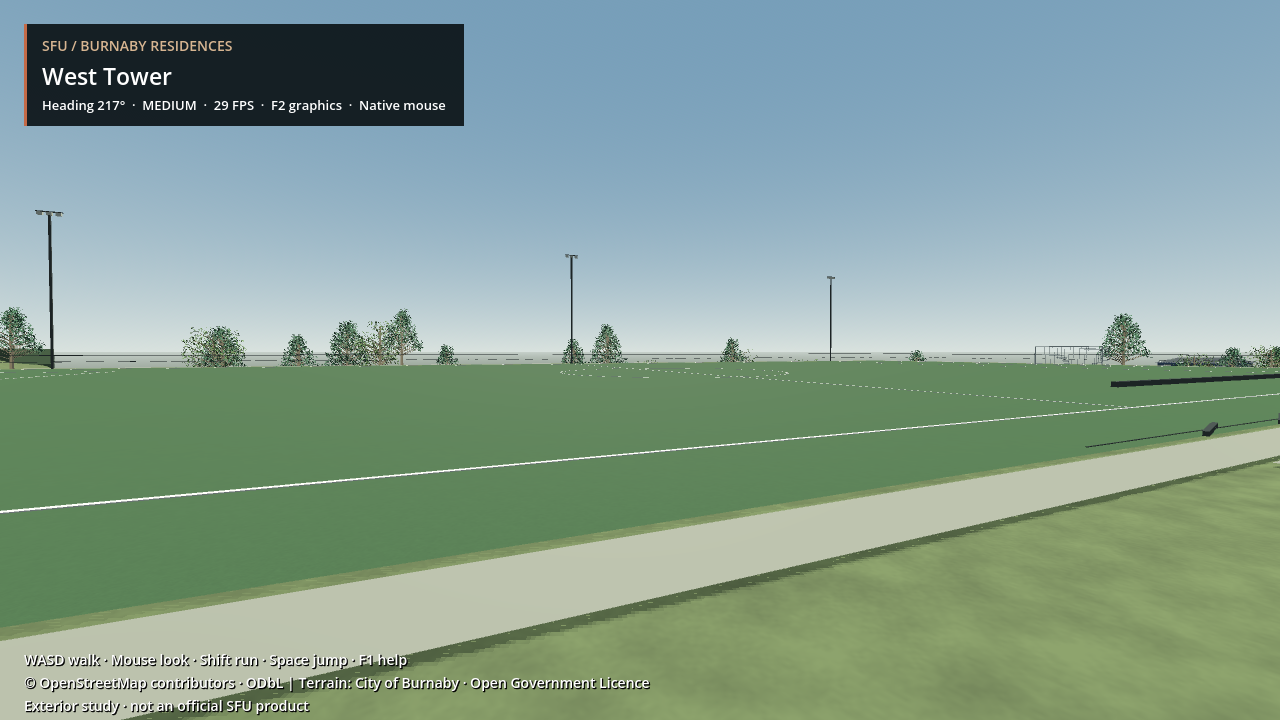
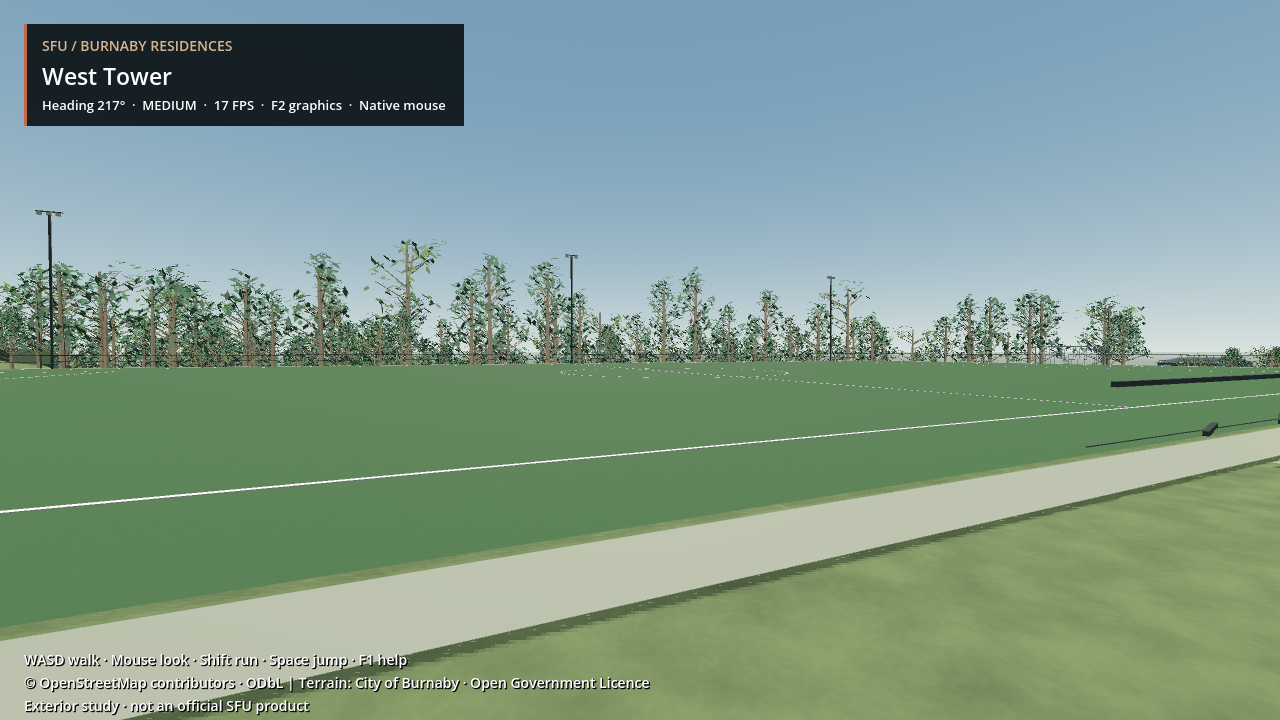
Add mapped North parking stairs and sports woodland context

Changed region(s): [[0.0, 0.3361, 0.9062, 0.5194]]

diff --git a/docs/PHASE2_HANDOFF.md b/docs/PHASE2_HANDOFF.md
@@ -61,3 +61,14 @@ Implemented the distinct courtyard-facing lower exterior gallery (3.1m high,3.6m
 Full verify_game.sh PASS:224 physics checks,376 terrain parity samples,412 route checkpoints (including5 new gallery crossing points),zero failures. Family validator passes. Paving added after collision tests is visual-only; final --capture-gallery launches the final scene for eye-level review. Exact column count/spacing and ground elevations remain estimates; this does not complete West Mall bridge or eastern forecourt grading.
 McTaggart clarification this window: user confirms photographed descending approach faces residences/Dining Commons. Current mapped entrance approach varies only~0.1m over28m, inconsistent with photo's pronounced stair descent. Do not add a fictitious hump or silently move the whole building; resolve its entry-level/graded apron before stair implementation.
 Diagnostics: original requested outer wsl_diagnostics.sh absent; ran current scripts/check_wsl.sh. Godot4.7.2 Standard found. glxinfo absent from PATH, no dependency installed. GPU game log confirms Compatibility/OpenGL D3D12 NVIDIA GTX1650.
+
+## 2026-10-19 finalization: North parking stairs / sports woodland
+Courtyard lower gallery checkpoint31496e1 is committed; final gallery_0/1 inspected, internal paving replaces grass. Added NorthParkingStair on original OSM1159793611, tags highway=steps,handrail=yes,incline=down,source timestamp2023-09-05. Coordinates112.856,8.273→110.252,19.715 retained: this is the BRH/SBH gap connecting the parking grade to the longitudinal-gallery side. Estimated14 treads,2.6m width, rails and landings follow existing endpoint heights; no footprint/source-grid change. Separate from Shadbolt courtyard photo and Dining stairs. Final northparking_0 inspected; collision ramp hidden to prevent z-fighting with visible steps. New ascent/descent route13 checkpoints awaits final results below.
+SportsWoodland now active:331 decorative trees only in mapped woodland, excluding fields plus7m buffer and occupied paths/buildings. Simplified foliage meshes, shared meshes/material, spatial batches and300m culling. Species/spacing estimated; not photoreal finished vegetation. Initial far foliage looked skeletal; added solid coarse foliage clusters, final capture pending /tmp/woodland-final-capture.log. No collisions on these off-path context trees.
+Terrain chunk experiment was REVERTED: gallery fps17.3/14.2 before versus15.0/11.7 during concurrent QA after, draw calls increased. Not a controlled benchmark, no performance win claimed. Original monolithic terrain restored. HUD nearest-building updates reduced to10Hz, camera/mouse/movement untouched. Broad-view performance remains unresolved.
+Host95% usage signal: finish this safe checkpoint, no new features. Full suite /tmp/parking-woodland-final-verify.log currently running. Terrain parity now excludes only new raised stair collision RIDs to measure the underlying unchanged ground; independent stair-height and ascent/descent tests cover the added surface.
+Next concrete task: resolve McTaggart Dining-facing entrance level and flattened approach before adding descent; local photo1782503552135.jpg plus user's direction confirmation. Current approach changes~0.1m over28m, conflicting with photo. Do not invent a hump. Full open list remains PHASE2_COMPLETION_AUDIT.md: Courtyard bridge/east forecourt, Shell terraces, North gallery corners/detail localization, East/West stairs/basketball, field fixtures/markings, precise tree/ground materials, architecture exceptions. These have NOT been completed by this iteration.
+
+## VERIFIED North parking / woodland checkpoint — 2026-10-19
+Full verify_game.sh PASSED:225 physics checks,376/376 terrain parity samples,425 route checkpoints,zero failures. New parking stair descent/return13/13 passed; prior gallery and Dining routes remain passing. Final northparking_0 and woodland_0 inspected after visual corrections. Woodland is visibly fuller but still simplified/stylized; no photorealism claim. Compatibility GTX1650 launch and capture complete; full family and46-photo index validators pass. Capture logs: /tmp/north-parking-final-capture.log, /tmp/woodland-final-capture.log. Runtime/source/approved East-West preservation checks pass.
+User reset allowance and explicitly requested continuation while finalizing; prior95% stop wording is superseded. Continue the remaining audit from this tested state. User Zone.Identifier deletions remain unstaged and untouched.

diff --git a/docs/PHASE2_STATUS.md b/docs/PHASE2_STATUS.md
@@ -65,3 +65,14 @@ Implemented the distinct courtyard-facing lower exterior gallery (3.1m high,3.6m
 Full verify_game.sh PASS:224 physics checks,376 terrain parity samples,412 route checkpoints (including5 new gallery crossing points),zero failures. Family validator passes. Paving added after collision tests is visual-only; final --capture-gallery launches the final scene for eye-level review. Exact column count/spacing and ground elevations remain estimates; this does not complete West Mall bridge or eastern forecourt grading.
 McTaggart clarification this window: user confirms photographed descending approach faces residences/Dining Commons. Current mapped entrance approach varies only~0.1m over28m, inconsistent with photo's pronounced stair descent. Do not add a fictitious hump or silently move the whole building; resolve its entry-level/graded apron before stair implementation.
 Diagnostics: original requested outer wsl_diagnostics.sh absent; ran current scripts/check_wsl.sh. Godot4.7.2 Standard found. glxinfo absent from PATH, no dependency installed. GPU game log confirms Compatibility/OpenGL D3D12 NVIDIA GTX1650.
+
+## 2026-10-19 finalization: North parking stairs / sports woodland
+Courtyard lower gallery checkpoint31496e1 is committed; final gallery_0/1 inspected, internal paving replaces grass. Added NorthParkingStair on original OSM1159793611, tags highway=steps,handrail=yes,incline=down,source timestamp2023-09-05. Coordinates112.856,8.273→110.252,19.715 retained: this is the BRH/SBH gap connecting the parking grade to the longitudinal-gallery side. Estimated14 treads,2.6m width, rails and landings follow existing endpoint heights; no footprint/source-grid change. Separate from Shadbolt courtyard photo and Dining stairs. Final northparking_0 inspected; collision ramp hidden to prevent z-fighting with visible steps. New ascent/descent route13 checkpoints awaits final results below.
+SportsWoodland now active:331 decorative trees only in mapped woodland, excluding fields plus7m buffer and occupied paths/buildings. Simplified foliage meshes, shared meshes/material, spatial batches and300m culling. Species/spacing estimated; not photoreal finished vegetation. Initial far foliage looked skeletal; added solid coarse foliage clusters, final capture pending /tmp/woodland-final-capture.log. No collisions on these off-path context trees.
+Terrain chunk experiment was REVERTED: gallery fps17.3/14.2 before versus15.0/11.7 during concurrent QA after, draw calls increased. Not a controlled benchmark, no performance win claimed. Original monolithic terrain restored. HUD nearest-building updates reduced to10Hz, camera/mouse/movement untouched. Broad-view performance remains unresolved.
+Host95% usage signal: finish this safe checkpoint, no new features. Full suite /tmp/parking-woodland-final-verify.log currently running. Terrain parity now excludes only new raised stair collision RIDs to measure the underlying unchanged ground; independent stair-height and ascent/descent tests cover the added surface.
+Next concrete task: resolve McTaggart Dining-facing entrance level and flattened approach before adding descent; local photo1782503552135.jpg plus user's direction confirmation. Current approach changes~0.1m over28m, conflicting with photo. Do not invent a hump. Full open list remains PHASE2_COMPLETION_AUDIT.md: Courtyard bridge/east forecourt, Shell terraces, North gallery corners/detail localization, East/West stairs/basketball, field fixtures/markings, precise tree/ground materials, architecture exceptions. These have NOT been completed by this iteration.
+
+## VERIFIED North parking / woodland checkpoint — 2026-10-19
+Full verify_game.sh PASSED:225 physics checks,376/376 terrain parity samples,425 route checkpoints,zero failures. New parking stair descent/return13/13 passed; prior gallery and Dining routes remain passing. Final northparking_0 and woodland_0 inspected after visual corrections. Woodland is visibly fuller but still simplified/stylized; no photorealism claim. Compatibility GTX1650 launch and capture complete; full family and46-photo index validators pass. Capture logs: /tmp/north-parking-final-capture.log, /tmp/woodland-final-capture.log. Runtime/source/approved East-West preservation checks pass.
+User reset allowance and explicitly requested continuation while finalizing; prior95% stop wording is superseded. Continue the remaining audit from this tested state. User Zone.Identifier deletions remain unstaged and untouched.

diff --git a/docs/PHASE2_COMPLETION_AUDIT.md b/docs/PHASE2_COMPLETION_AUDIT.md
@@ -13,7 +13,7 @@ Latest user instruction: work through all deferred remarks; preserve accepted ge
 | Beedie realism | Outline/infield/backstop first pass; sunken dugouts, benches/bleachers, bullpen, batting cage, fixture/track geometry | Partial |
 | North longitudinal gallery | Correct under long courtyard wing; repeat eye-level inside-wall/corner audit, no exposed building voids | Recheck |
 | North to Dining Commons | Two-flight stair added from Shadbolt gallery toward Dining west wall; ascent/descent13/13 passed. Dimensions estimated; exact upper door/landing tie-in pending | Verified first pass |
-| North gallery to parking | Separate connection still missing; do not confuse with Dining link or Shadbolt courtyard stair photo | Pending |
+| North gallery to parking | Mapped OSM1159793611 stair with rails/landings added; descent/return13/13 passed and eye-level reviewed. Width/count estimated; separate from Dining and courtyard photo | Verified first pass |
 | North surrounding details | Red service doors, roof/fins, curved beds, pavers, drains, stairs/rails, door/sign localization | Partial |
 | Courtyard east portico | Implemented and traversable; forecourt remains crude grassy slope | Partial |
 | Courtyard inner gallery | Lower court-facing recess, piers, soffit fins, closed rear glazing, grey pavers added; physical entry/crossing/exit passed. Dimensions estimated | Verified first pass |
@@ -29,7 +29,7 @@ Latest user instruction: work through all deferred remarks; preserve accepted ge
 | Dining architecture | Old/new distinct wings implemented; current as-built finish, roof steps/joint, screens/service doors need comparison | Partial |
 | Parking | Full preconstruction lot grade and CC0 cars implemented; verify curb/aisle/vegetation/perimeter realism | Partial |
 | General outdoor materials | Concrete/pavers/asphalt overrides implemented; drainage channels, retaining walls, transitions still incomplete | Partial |
-| Vegetation | Mapped sparse stylized plants; forest edges, species/form and material realism need improvement | Partial |
+| Vegetation | Added331 batched context trees in mapped sports woodland, field/path buffers, coarse distant foliage. Species/spacing estimated; realism still incomplete | Partial |
 | Performance | GTX1650 Compatibility runs; broad views slow, prior captures may share GPU with another game instance | Measure/optimize |
 
 Source audit: all docs/*.md searched for pending/remaining/unresolved/unknown/next markers; read latest HANDOFF plus SITE_WALK_CORRECTIONS, PHOTO_REFINEMENT_BACKLOG, NORTH_PLAN_AUDIT, LANDSCAPE_PHOTO_REVIEW, DINING_REVIEW and relevant runtime modules. Historical plans/floor-count conflicts remain uncertainties rather than authorization to replace approved models. No interiors, NPCs, online API or unrelated gameplay.
